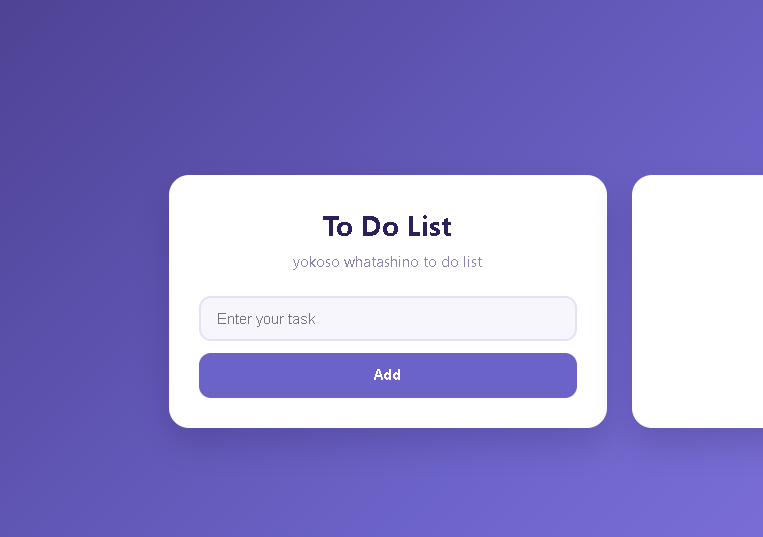
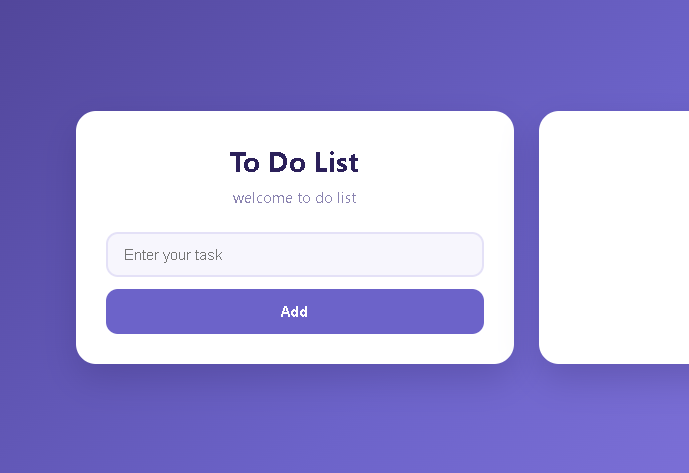
Update portfolio

Changed region(s): [[0.0914, 0.2368, 1.0, 0.7992]]

diff --git a/arb.html b/arb.html
@@ -38,8 +38,7 @@
     <h2>مطور واجهات أمامية</h2>
 
     <p>
-        شغوف بإنشاء مواقع ويب حديثة ومتجاوبة وتفاعلية.
-        أعمل حاليًا على إتقان JavaScript وأبني مشاريع حقيقية كل يوم لتطوير مهاراتي.
+     شغوف بإنشاء مواقع ويب حديثة ومتجاوبة وتفاعلية بالاضافة الى انني أبني مشاريع حقيقية كل يوم لتطوير  مهاراتي 
     </p>
 
     
@@ -120,7 +119,7 @@
         <p>
             واجهة حديثة ومتجاوبة تم إنشاؤها باستخدام HTML وCSS.
             <br><br>
-                 github  هذا المشروع موجد في  
+                 github  هذا المشروع موجود في  
         </p>
 
     </article>
@@ -136,7 +135,7 @@
         <p>
             مشروع باستخدام JavaScript وDOM والأحداث لإضافة المهام وحذفها.
 <br><br>
-          github  هذا المشروع موجد في  
+          github  هذا المشروع موجود في  
         </p>
 
     </article>
@@ -158,7 +157,7 @@
     </div>
 
     <p>
-© 2026 علي مؤمن. جميع الحقوق محفوظة.
+© 2026 علي مومن. جميع الحقوق محفوظة.
 </p>
 
 

diff --git a/designe.css b/designe.css
@@ -361,8 +361,8 @@ nav{
 .nav{
 display: flex;
 justify-content: start;
-gap: 50px;
-margin-left: 10px;
+gap: 25px;
+
 text-decoration:none;
 font-size: 25px;
 font-weight: 700;
